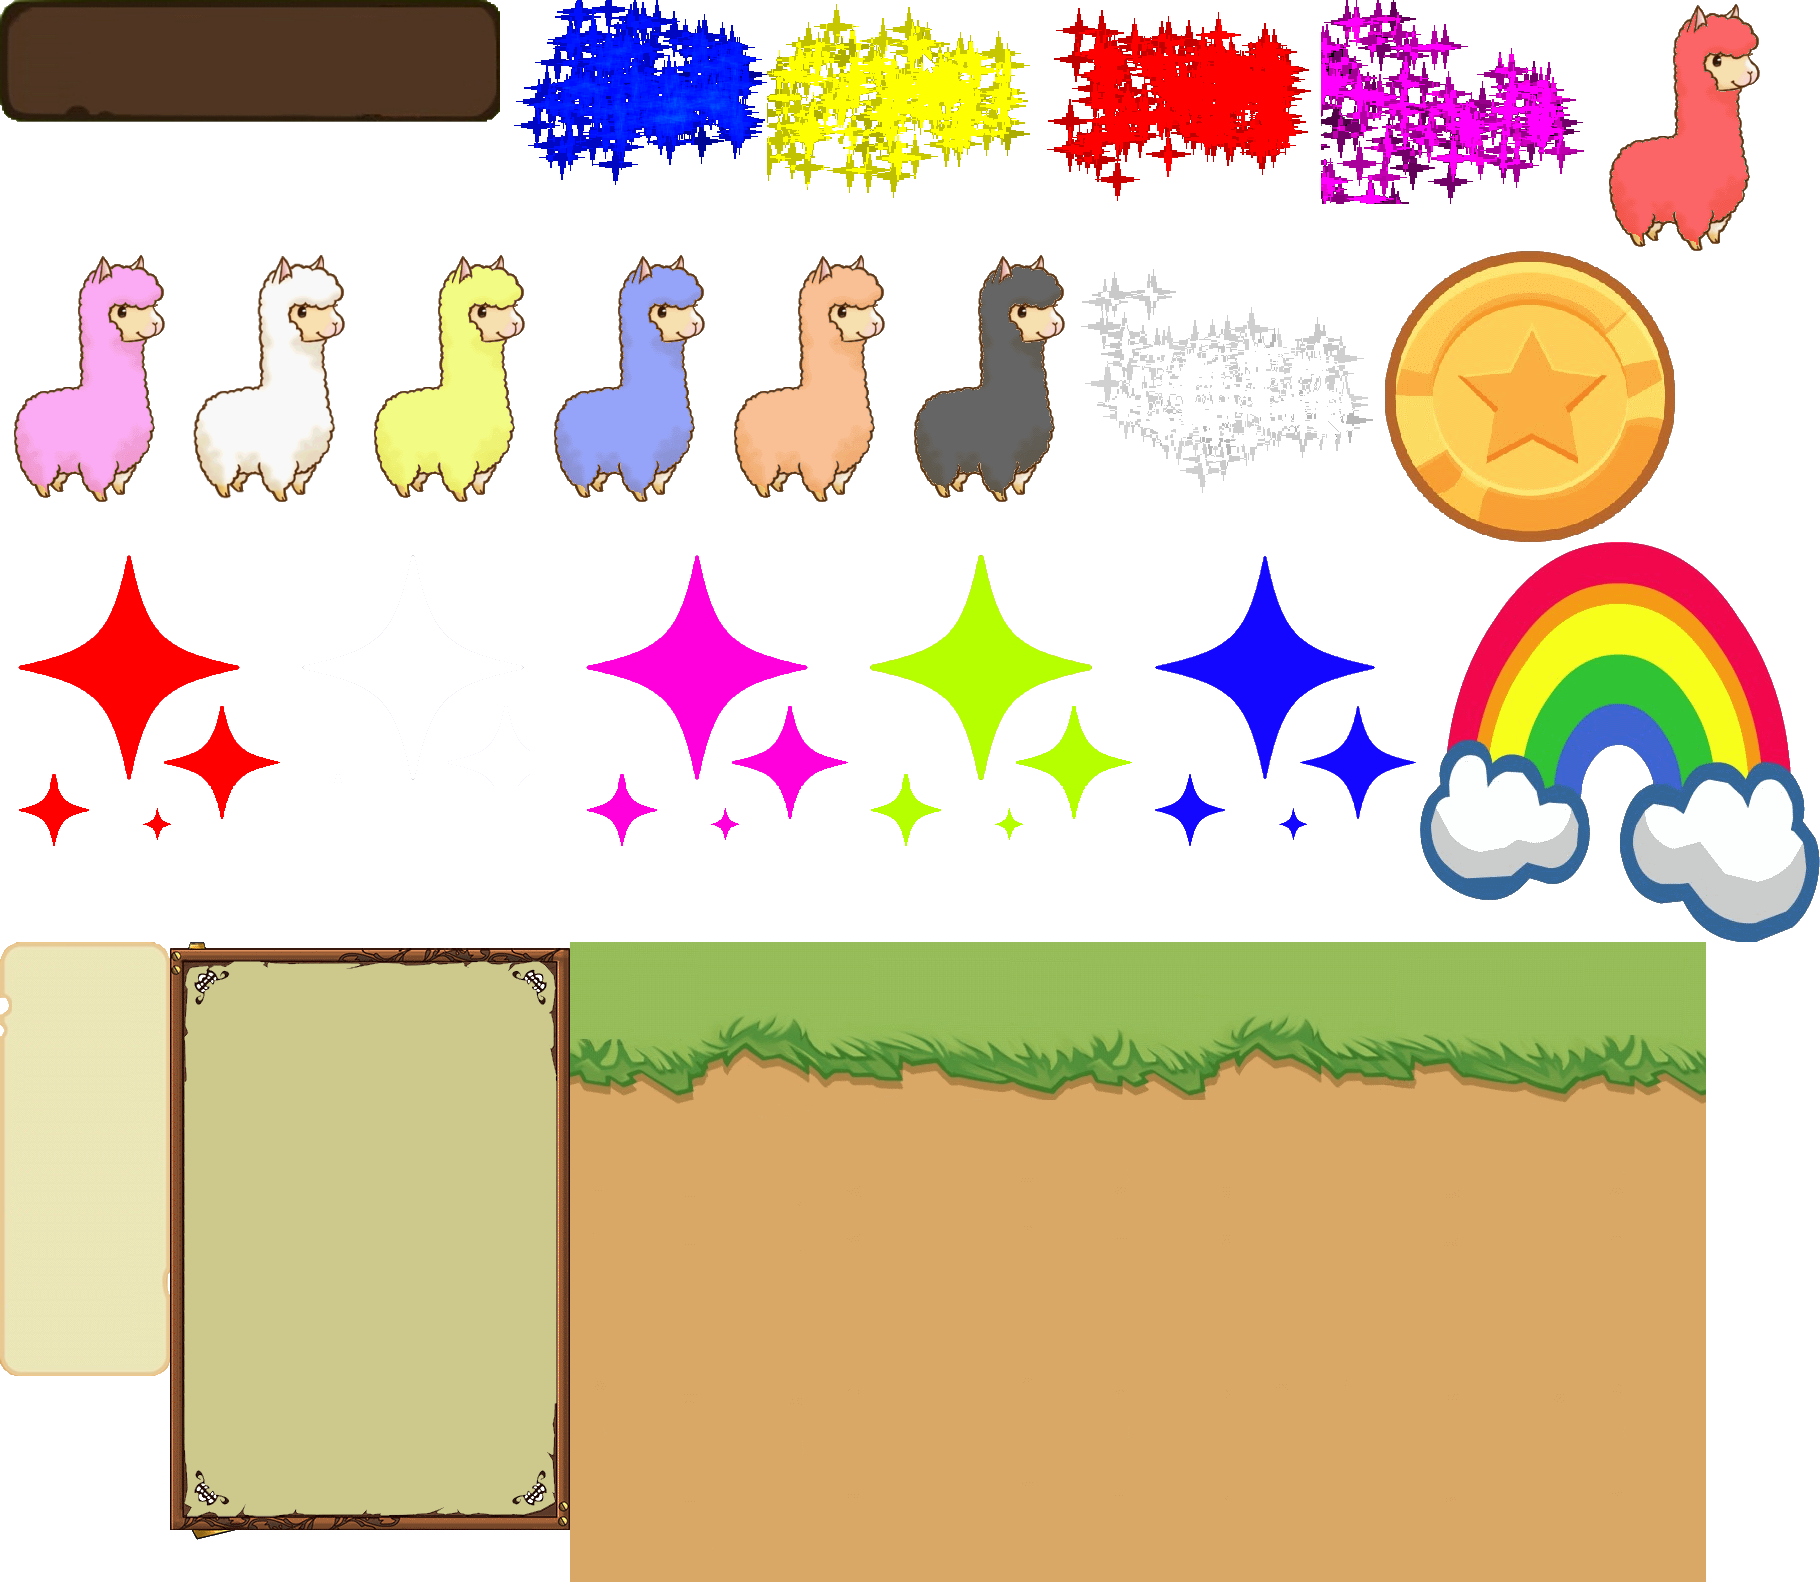
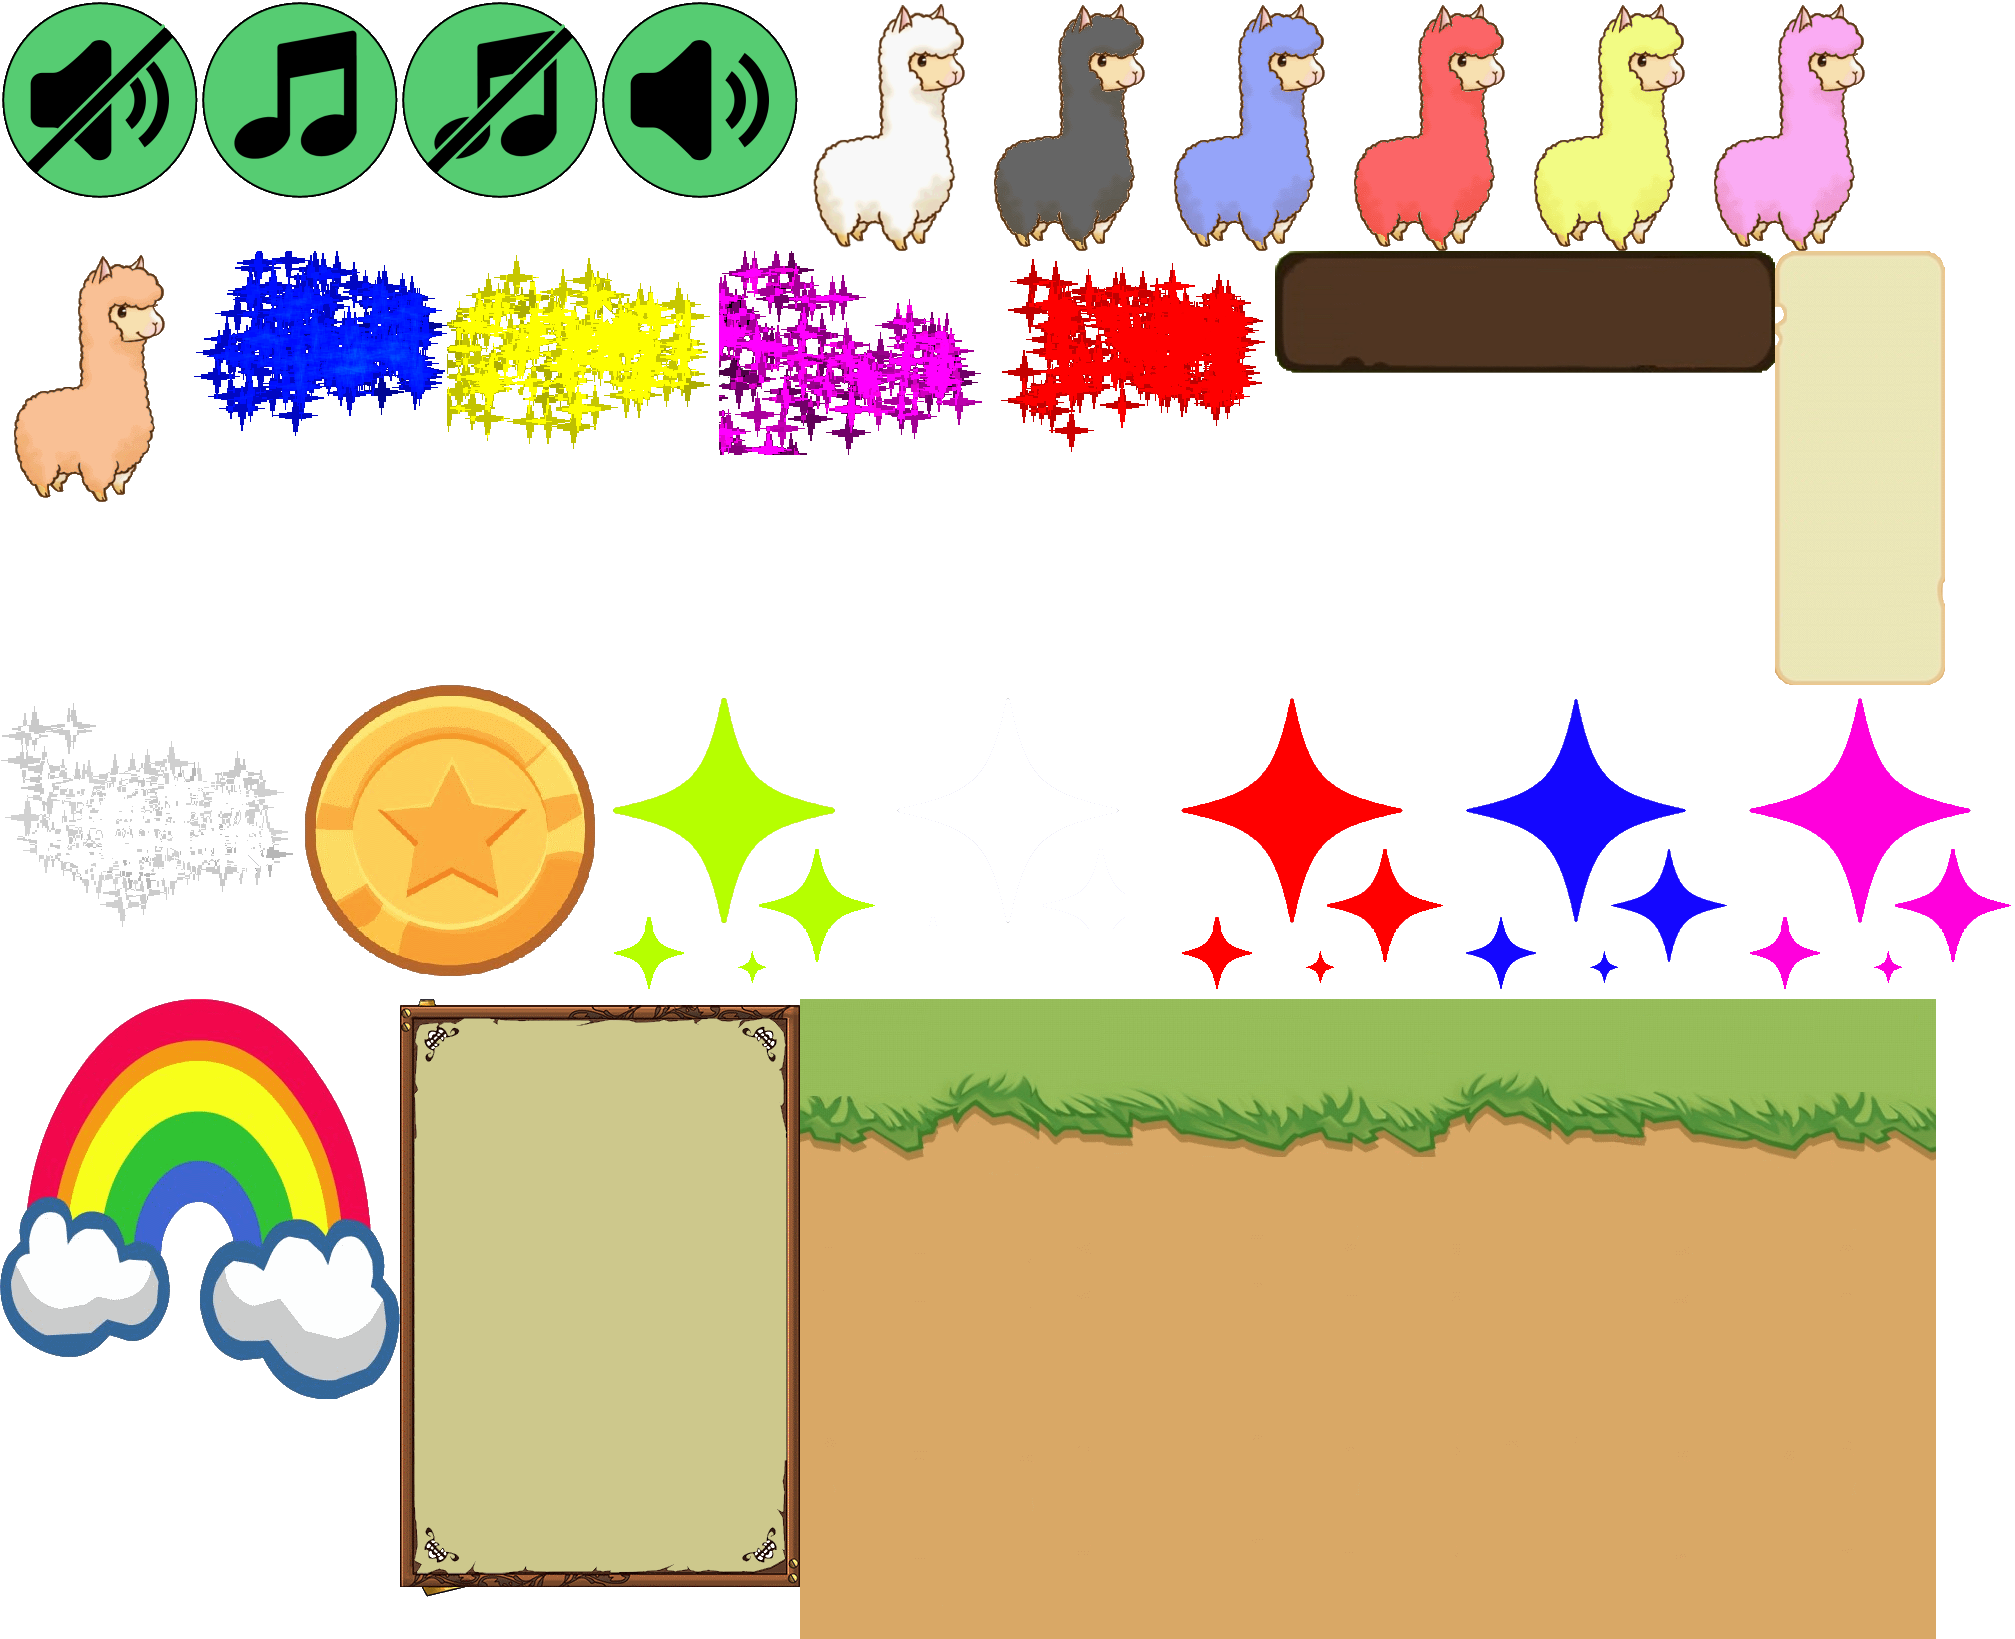
Add sound button

diff --git a/core/src/com/mygdx/game/menu/scenes/MainMenuScene.java b/core/src/com/mygdx/game/menu/scenes/MainMenuScene.java
@@ -6,10 +6,14 @@ import com.badlogic.gdx.graphics.Color;
 import com.badlogic.gdx.graphics.g2d.BitmapFont;
 import com.badlogic.gdx.graphics.g2d.ParticleEffect;
 import com.badlogic.gdx.graphics.g2d.SpriteBatch;
+import com.badlogic.gdx.graphics.g2d.TextureAtlas;
+import com.badlogic.gdx.graphics.g2d.TextureRegion;
 import com.badlogic.gdx.scenes.scene2d.InputEvent;
 import com.badlogic.gdx.scenes.scene2d.InputListener;
+import com.badlogic.gdx.scenes.scene2d.ui.ImageButton;
 import com.badlogic.gdx.scenes.scene2d.ui.Label;
 import com.badlogic.gdx.scenes.scene2d.ui.TextButton;
+import com.badlogic.gdx.scenes.scene2d.utils.TextureRegionDrawable;
 import com.mygdx.game.AlpacaAttack;
 import com.mygdx.game.assets.MenuAssets;
 import com.mygdx.game.menu.background.MainMenuBackground;
@@ -26,12 +30,18 @@ public class MainMenuScene extends com.mygdx.game.menu.scenes.MenuScene {
     public static final float BUTTON_WIDTH = Gdx.graphics.getWidth()/3;
     public static final float BUTTON_HEIGHT = Gdx.graphics.getHeight()/8;
     private static final float BUTTON_PADDING = BUTTON_HEIGHT/7;
+    private static final float VOLUME_BUTTON_SIZE = Gdx.graphics.getHeight()/10;
 
     private BitmapFont font;
 
     private Game game;
 
     private MainMenuBackground background;
+    private TextureAtlas menuAtlas;
+
+    private ImageButton soundButton;
+    private ImageButton musicButton;
+
 
     public MainMenuScene(MenuScreen mScreen){
         super(mScreen.assets);
@@ -42,6 +52,8 @@ public class MainMenuScene extends com.mygdx.game.menu.scenes.MenuScene {
 
         font = menuScreen.assets.manager.get(MenuAssets.mainMenuButtonFont, BitmapFont.class);
         background = new MainMenuBackground(mScreen.assets);
+
+        menuAtlas = menuScreen.assets.manager.get(MenuAssets.menuAtlasPath, TextureAtlas.class);
 
         this.createButtons();
 
@@ -101,7 +113,100 @@ public class MainMenuScene extends com.mygdx.game.menu.scenes.MenuScene {
         });
         stage.addActor(close);
 
+        this.createSoundButtons();
     }
+
+    private void createSoundButtons(){
+
+        soundButton = new ImageButton(this.selectSoundButtonTexture());
+        soundButton.setSize(VOLUME_BUTTON_SIZE,VOLUME_BUTTON_SIZE);
+        soundButton.setPosition(BUTTON_PADDING, BUTTON_PADDING);
+        soundButton.setChecked(true);
+        soundButton.addListener(new InputListener(){
+            @Override
+            public boolean touchDown(InputEvent event, float x, float y, int pointer, int button) {
+                changeSoundVolume();
+                soundButton.setStyle(selectSoundButtonTexture());
+                return true;
+            }
+        });
+        stage.addActor(soundButton);
+
+        musicButton = new ImageButton(this.selectMusicButtonTexture());
+        musicButton.setSize(VOLUME_BUTTON_SIZE,VOLUME_BUTTON_SIZE);
+        musicButton.setPosition(Gdx.graphics.getWidth() - VOLUME_BUTTON_SIZE - BUTTON_PADDING, BUTTON_PADDING);
+        musicButton.setChecked(true);
+        musicButton.addListener(new InputListener(){
+            @Override
+            public boolean touchDown(InputEvent event, float x, float y, int pointer, int button) {
+                changeMusicVolume();
+                musicButton.setStyle(selectMusicButtonTexture());
+                return true;
+            }
+        });
+        stage.addActor(musicButton);
+
+    }
+
+    private void changeSoundVolume(){
+        if(Gdx.app.getPreferences("prefs").getFloat("soundVolume", 1f) == 1)
+            Gdx.app.getPreferences("prefs").putFloat("soundVolume", 0f).flush();
+        else
+            Gdx.app.getPreferences("prefs").putFloat("soundVolume", 1f).flush();
+
+    }
+
+    private void changeMusicVolume(){
+        if(Gdx.app.getPreferences("prefs").getFloat("musicVolume", 1f) == 1) {
+            Gdx.app.getPreferences("prefs").putFloat("musicVolume", 0f).flush();
+            menuScreen.music.setVolume(0f);
+        }
+
+        else {
+            Gdx.app.getPreferences("prefs").putFloat("musicVolume", 1f).flush();
+            menuScreen.music.setVolume(1f);
+            menuScreen.music.play();
+        }
+
+    }
+
+    private ImageButton.ImageButtonStyle selectSoundButtonTexture(){
+        TextureRegion texture;
+        if(Gdx.app.getPreferences("prefs").getFloat("soundVolume", 1f) == 1)
+            texture = menuAtlas.findRegion("sound_on");
+        else
+            texture = menuAtlas.findRegion("sound_off");
+
+        ImageButton.ImageButtonStyle soundStyle = new ImageButton.ImageButtonStyle();
+        soundStyle.imageUp = new TextureRegionDrawable(texture);
+
+        return soundStyle;
+    }
+
+    private ImageButton.ImageButtonStyle selectMusicButtonTexture(){
+        TextureRegion texture;
+        if(Gdx.app.getPreferences("prefs").getFloat("musicVolume", 1f) == 1)
+            texture = menuAtlas.findRegion("music_on");
+        else
+            texture = menuAtlas.findRegion("music_off");
+
+        ImageButton.ImageButtonStyle soundStyle = new ImageButton.ImageButtonStyle();
+        soundStyle.imageUp = new TextureRegionDrawable(texture);
+
+        return soundStyle;
+    }
+
+
+    private TextureRegionDrawable selectSoundMusicButtonTexture(){
+
+        TextureRegion musicTexture;
+        if(Gdx.app.getPreferences("prefs").getFloat("musicVolume", 1f) == 1)
+            musicTexture = menuAtlas.findRegion("sound_on");
+        else
+            musicTexture = menuAtlas.findRegion("sound_off");
+        return new TextureRegionDrawable(musicTexture);
+    }
+
 
     @Override
     public void render(SpriteBatch batch){
